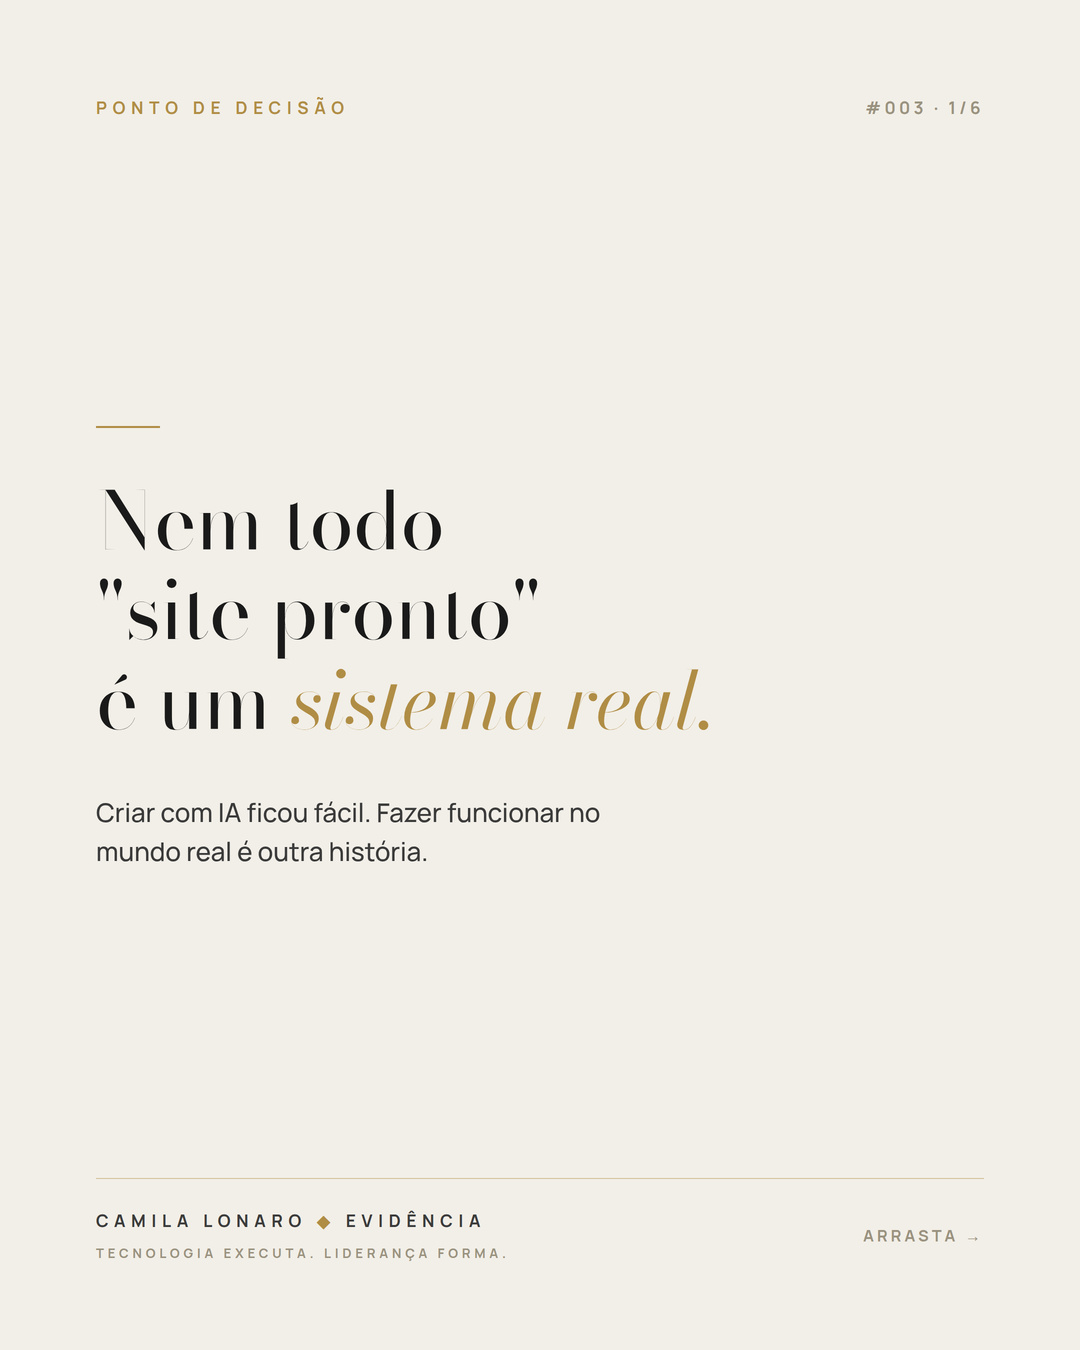
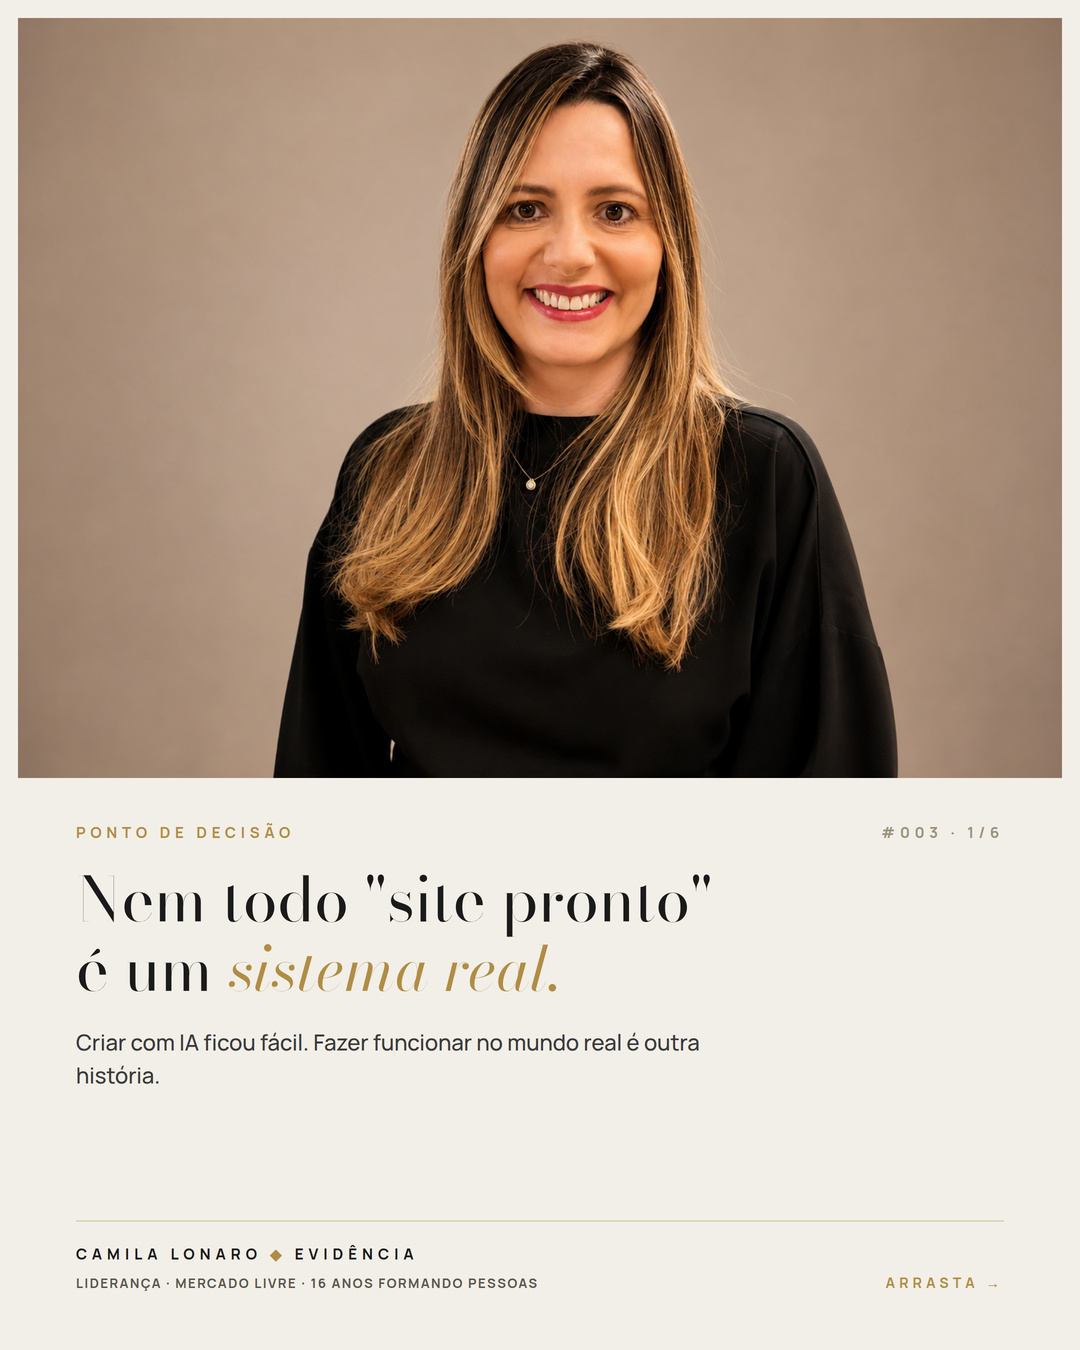
Put Camila's real photo on the carousel covers
Covers and closing slides now carry her portrait or event photo with a
credential line, so the posts read as hers rather than as anonymous
text cards.

Claude-Session: https://claude.ai/code/session_0187BAq4fKzDRMCCEJqtPjF1

diff --git a/images/carrossel-003-site-pronto/_template-capa-foto.html b/images/carrossel-003-site-pronto/_template-capa-foto.html
@@ -1,0 +1,27 @@
+<!doctype html><html><head><meta charset="utf-8">
+<link rel="stylesheet" href="https://fonts.googleapis.com/css2?family=Bodoni+Moda:ital,wght@0,400..900;1,400..900&family=Manrope:wght@400..800&display=swap">
+<style>
+*{margin:0;padding:0;box-sizing:border-box}
+html,body{width:1080px;height:1350px;overflow:hidden}
+body{position:relative;font-family:"Manrope",sans-serif;background:#F2EFE8}
+.ph{position:absolute;left:18px;right:18px;top:18px;height:__PH__px;background-image:url("__IMG__");background-size:cover;background-position:__POS__}
+.card{position:absolute;left:18px;right:18px;bottom:18px;top:__CARDTOP__px;background:#F2EFE8;padding:44px 58px 40px}
+.kick{display:flex;justify-content:space-between;font-size:15px;letter-spacing:.32em;text-transform:uppercase;font-weight:700;color:#B08D45;margin-bottom:22px}
+.kick span:last-child{color:#9A927F}
+h1{font-family:"Bodoni Moda",serif;font-weight:500;font-size:__H1__;line-height:1.12;color:#1A1A1A;text-wrap:balance}
+h1 em{font-style:italic;font-weight:400;color:#B08D45}
+.sub{margin-top:22px;font-size:22px;line-height:1.5;color:#3A3A3A;max-width:30em;font-weight:500}
+.foot{position:absolute;left:58px;right:58px;bottom:40px;display:flex;justify-content:space-between;align-items:flex-end;border-top:1px solid rgba(176,141,69,.45);padding-top:22px}
+.who{font-size:15px;letter-spacing:.34em;text-transform:uppercase;font-weight:800;color:#1A1A1A}
+.who b{color:#B08D45;margin:0 8px}
+.cred{font-size:13px;letter-spacing:.12em;text-transform:uppercase;color:#5C574E;margin-top:10px;font-weight:700}
+.right{font-size:14px;letter-spacing:.3em;text-transform:uppercase;color:#B08D45;font-weight:800;white-space:nowrap}
+</style></head><body>
+<div class="ph"></div>
+<div class="card">
+  <div class="kick"><span>__KICKL__</span><span>__KICKR__</span></div>
+  <h1>__H1T__</h1>
+  __SUB__
+  <div class="foot"><div><div class="who">Camila Lonaro<b>&#9670;</b>Evidência</div><div class="cred">__CRED__</div></div><div class="right">__RIGHT__</div></div>
+</div>
+</body></html>
